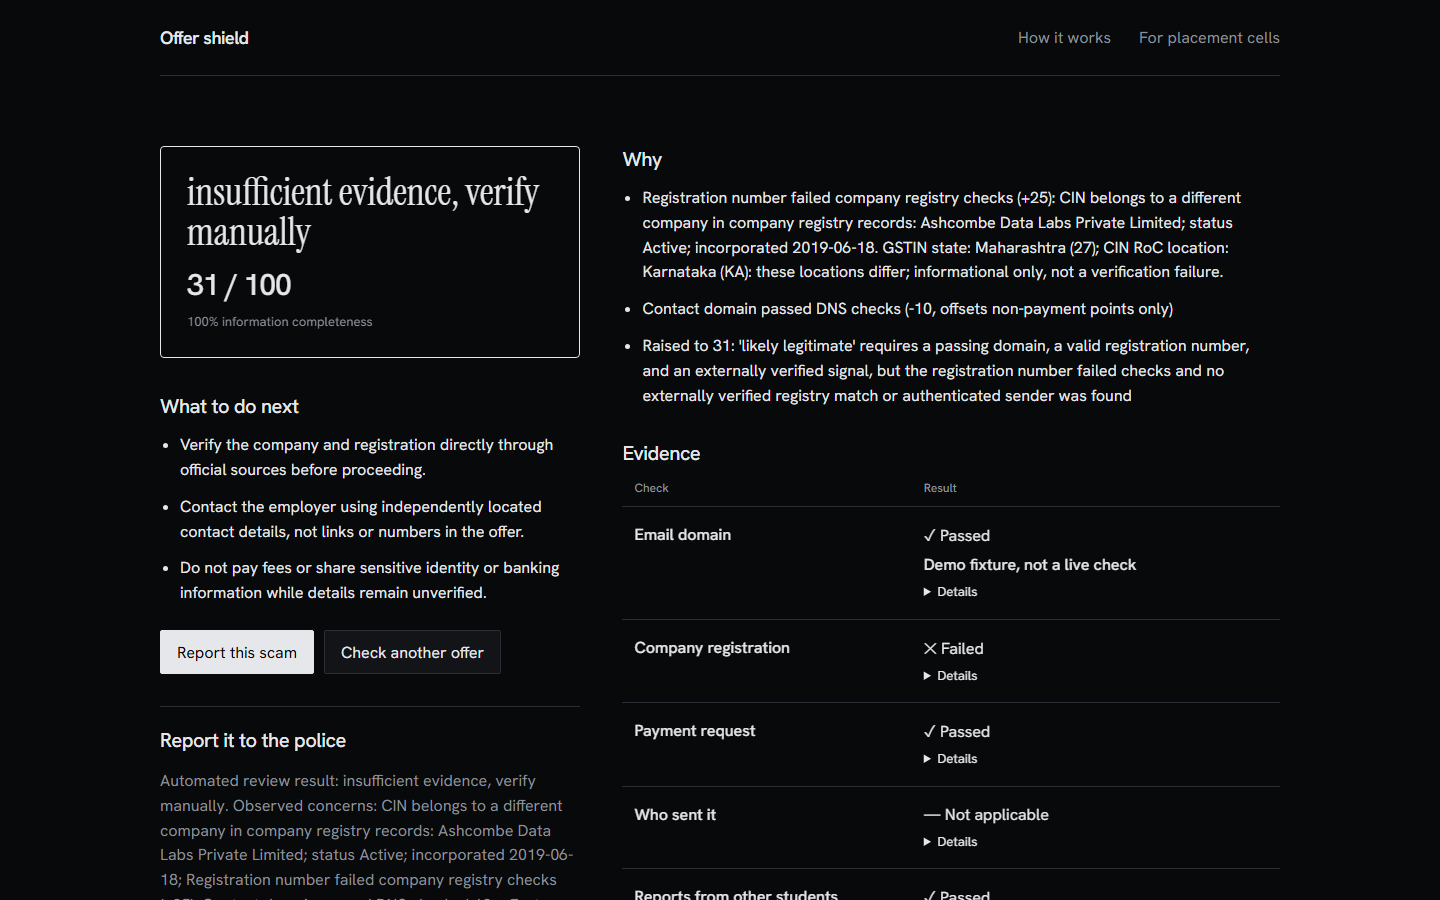
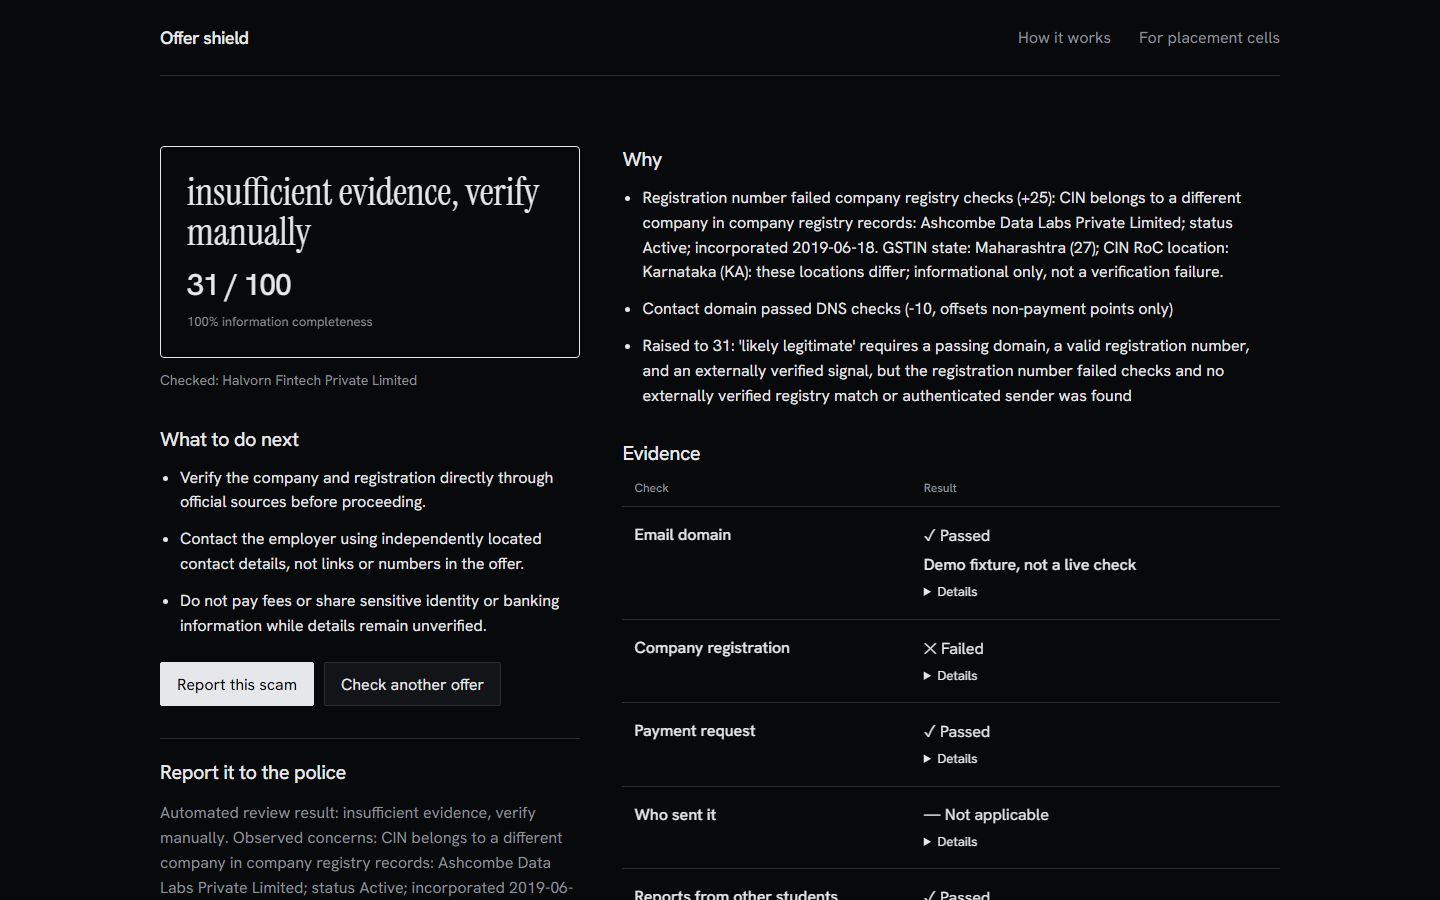
Result screen: show the extracted company name under the verdict plate
- API: company_name (returned only; never stored, Offer.company_name stays NULL)
- 'Checked: <name>' in steel directly under the plate; hidden when no name was extracted
- frontend and backend tests; Playwright screenshots recaptured

Changed region(s): [[0.0938, 0.4044, 0.4062, 1.0]]

diff --git a/frontend/src/App.test.tsx b/frontend/src/App.test.tsx
@@ -66,6 +66,21 @@ describe('analysis result', () => {
     expect(within(ledger).getByText('DMARC and aligned DKIM passed.')).toBeInTheDocument()
   })
 
+  it('shows the checked company name under the verdict plate, in steel', async () => {
+    await showResult(payload({ risk_band: 'likely legitimate', company_name: 'Quillmere Software Private Limited' }))
+    const line = screen.getByText('Checked: Quillmere Software Private Limited')
+    expect(line).toHaveClass(styles.checkedCompany)
+    const plate = screen.getByRole('heading', { name: 'likely legitimate' }).parentElement!
+    expect(plate.nextElementSibling).toBe(line)
+    const css = readFileSync(resolve(__dirname, 'App.module.css'), 'utf8')
+    expect(css).toMatch(/\.checkedCompany \{[^}]*color: var\(--steel\)/)
+  })
+
+  it.each([null, undefined, '', '   '])('hides the company line when no name was extracted (%j)', async name => {
+    await showResult(payload({ company_name: name as string | null | undefined }))
+    expect(screen.queryByText(/^Checked:/)).not.toBeInTheDocument()
+  })
+
   it('labels demo fixture evidence', async () => {
     await showResult(payload({ checks: [{ check_name: 'domain_verification', status: 'pass', details: '[DEMO FIXTURE — not a live DNS result] emberlakeanalytics.example.' }] }))
     expect(screen.getByText('Demo fixture, not a live check')).toBeInTheDocument()

diff --git a/frontend/src/App.tsx b/frontend/src/App.tsx
@@ -142,6 +142,7 @@ function Result({ result, onClear }: { result: AnalyzeResponse; onClear: () => v
   const band = result.risk_band
   return <section className={styles.result} aria-live="polite">
     <div className={styles.resultSide}>{band && <div className={`${styles.verdict} ${bandClass(band)}`}><h1>{band}</h1><p className={styles.score}><span>{Number.isInteger(result.overall_risk_score) ? result.overall_risk_score : result.overall_risk_score.toFixed(1)}</span> / 100</p><p className={styles.completeness}>{result.completeness_percentage}% information completeness</p></div>}
+      {result.company_name?.trim() && <p className={styles.checkedCompany}>Checked: {result.company_name.trim()}</p>}
       {result.next_steps?.length > 0 && <section className={styles.guidance}><h2>What to do next</h2><ul>{result.next_steps.map((step, i) => <li key={i}>{step}</li>)}</ul></section>}
       <div className={styles.actions}>{result.report_token && <button onClick={() => setReportOpen(true)}>Report this scam</button>}<button className={styles.secondaryButton} onClick={onClear}>Check another offer</button></div>
       {result.complaint_summary?.trim() && <Complaint summary={result.complaint_summary}/>}

diff --git a/frontend/src/App.module.css b/frontend/src/App.module.css
@@ -46,6 +46,7 @@ button:disabled { cursor: not-allowed; opacity: .55; }
 .likely { border: 1px solid var(--graphite); color: var(--platinum); }
 .score { margin: 0 0 8px; font-size: 30px; font-variant-numeric: tabular-nums; font-weight: 500; letter-spacing: -.035em; }
 .completeness { color: var(--steel); }
+.checkedCompany { margin: 12px 0 0; color: var(--steel); font-size: 14px; line-height: 1.45; overflow-wrap: anywhere; }
 .highRisk .completeness { color: var(--graphite); }
 .guidance { margin-top: 35px; }
 .guidance h2, .why h2, .ledgerSection h2, .complaint h2, .dashboardResults h2, .howPage h2 { margin: 0 0 14px; font-size: 20px; font-weight: 500; letter-spacing: -.02em; }

diff --git a/frontend/src/api/types.ts b/frontend/src/api/types.ts
@@ -42,6 +42,8 @@ export interface AnalyzeResponse {
   reportable_indicators: ReportableIndicator[]
   /** Traceability only; never displayed. "synthetic" marks demo-only fictional registry data. */
   registry_source?: string | null
+  /** Company name extracted from the offer text, if any (not stored server-side). */
+  company_name?: string | null
 }
 
 export interface ReportableIndicator {

diff --git a/tests/test_demo_documents.py b/tests/test_demo_documents.py
@@ -49,6 +49,26 @@ def test_every_demo_pdf_matches_its_text(demo_client, stem):
     assert [c["status"] for c in pdf_body["checks"]] == [c["status"] for c in text_body["checks"]]
 
 
+def test_company_name_returned_but_not_stored(demo_client):
+    from app.db.database import get_db
+    from app.main import app
+    from app.models.models import Offer
+
+    body = analyze(demo_client, "registry_name_match_quillmere", "pdf")
+    assert body["company_name"] == "Quillmere Software Private Limited"
+    db = next(app.dependency_overrides[get_db]())
+    try:
+        assert db.query(Offer).filter(Offer.company_name.isnot(None)).count() == 0
+    finally:
+        db.close()
+
+
+def test_company_name_absent_when_not_extracted(api_client):
+    r = api_client.post("/analyze", data={"text": "Selected for WFH data entry. Our team will WhatsApp you the tasks."})
+    assert r.status_code == 200
+    assert r.json()["company_name"] is None
+
+
 def test_demo_pdfs_have_text_layer_and_letter_layout():
     import pdfplumber
     for stem in DEMO_LETTERS:

diff --git a/app/api/routes/analyze.py b/app/api/routes/analyze.py
@@ -7,6 +7,7 @@ from sqlalchemy.orm import Session
 
 from app.api.limiter import limiter, RATE_LIMIT
 from app.db.database import get_db
+from app.utils.field_utils import get_field_value
 from app.models.models import Offer, VerificationResult, CheckResult, Institution, InstitutionObservation
 from app.schemas.schemas import AnalyzeResponse, CheckResultSchema, CheckStatus
 from app.services import (
@@ -240,4 +241,6 @@ def analyze_offer(
         report_token=report_token,
         reportable_indicators=reportable_indicators,
         registry_source=gstin_check.get("registry_source"),
+        # Returned for display only; never persisted (Offer.company_name stays NULL).
+        company_name=get_field_value(facts, "company_name", "company_name_legacy"),
     )

diff --git a/app/schemas/schemas.py b/app/schemas/schemas.py
@@ -55,3 +55,6 @@ class AnalyzeResponse(BaseModel):
     # registry result: "synthetic" (demo-only fictional data), "mca_csv", or None
     # when no registry record was consulted. Keeps demo results traceable.
     registry_source: Optional[str] = None
+    # Company name extracted from the offer text, shown under the verdict. Returned in
+    # the response only; it is never stored.
+    company_name: Optional[str] = None
